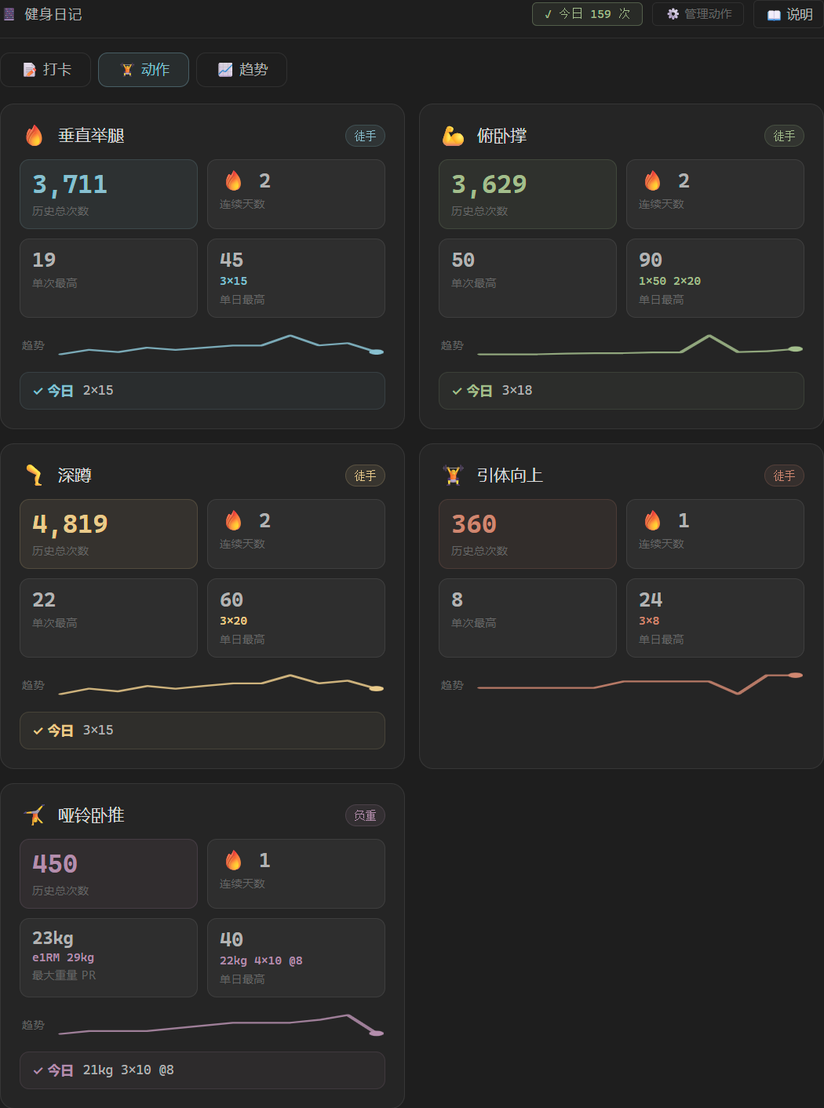
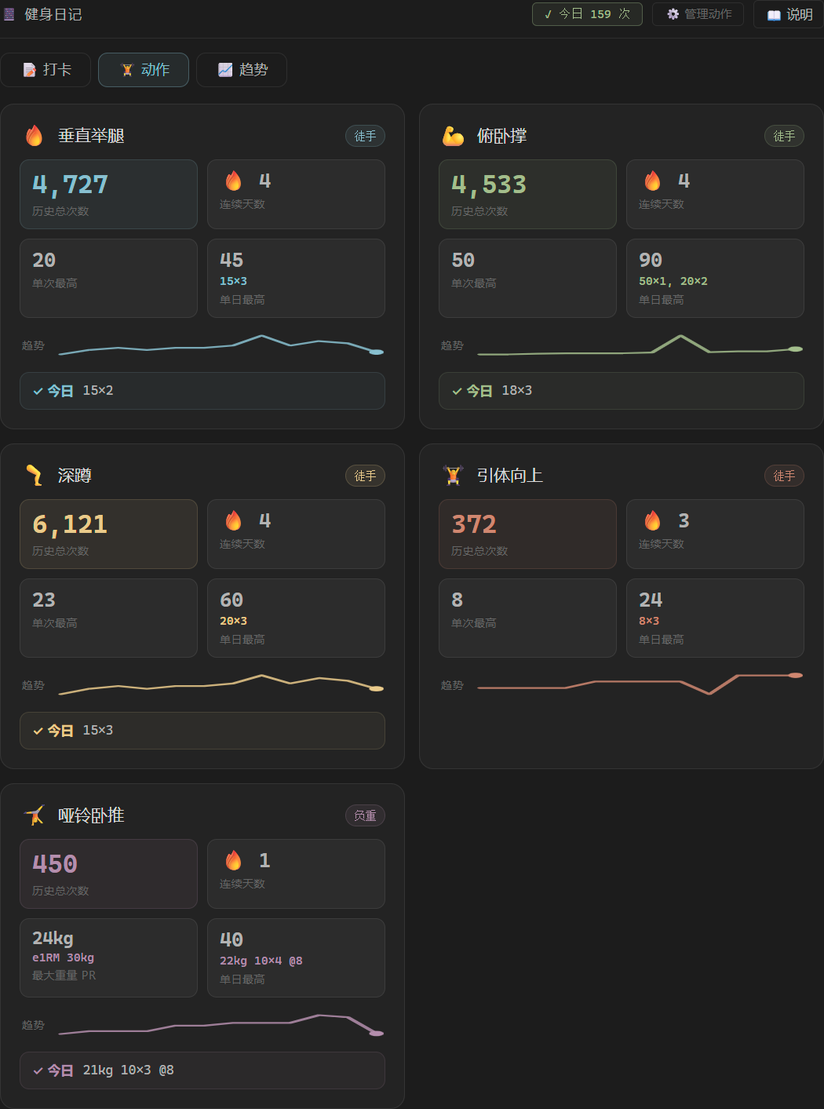
docs: README 同步 v1.93.0（健身日记表单重做）+ 刷新动作卡效果图

diff --git a/README.md b/README.md
@@ -132,12 +132,12 @@
 
 <div align="center">
   <img src="docs/img/module-workout.png" width="620" alt="健身日记"><br>
-  <b>📔 健身日记</b> · <sub>以「天」为中心的训练打卡：每天按<b>组记录</b>各动作（组数 × 次/组，负重动作可加 kg、选填 RPE；输入行上方有<b>列头</b>标着每格填什么，底下常显一行 RPE 是什么、怎么估）。<b>📊 累计总览</b>：从开始到今天（可按年份）的坚持天数 + 累计总次数 + 每个动作累计 + <b>全年热力图</b>（GitHub 式 52 周网格，一屏看一整年哪些天练了）。选时间段看<b>多动作锻炼曲线</b> + 每个动作的<b>单日峰值</b>及达成日 + 月历锻炼日历。</sub>
+  <b>📔 健身日记</b> · <sub>以「天」为中心的训练打卡（v1.93.0 表单重做，手机优先）：今天卡<b>只列今天练了的动作</b>（动作 chip 点谁加谁，可就地新建），每动作<b>一组一格横着排</b>（<code>[kg]kg [次]次</code>，「＋」照抄上一组、「↺ 上次」把上次的组整套填入；RPE 默认不显示、可在管理面板打开）；记录流水只列最近 10 天、每天一行摘要 <code>45kg 10×1, 60kg 8×2</code>。<b>📊 累计总览</b>：从开始到今天（可按年份）的坚持天数 + 累计总次数 + 每个动作累计 + <b>全年热力图</b>（GitHub 式 52 周网格，一屏看一整年哪些天练了）。选时间段看<b>多动作锻炼曲线</b> + 每个动作的<b>单日峰值</b>及达成日 + 月历锻炼日历。</sub>
 </div>
 
 <div align="center">
   <img src="docs/img/module-workout-ex.png" width="620" alt="健身日记 · 动作卡"><br>
-  <b>🏋 健身日记 · 动作卡</b> · <sub>每个动作一张长期档案卡：历史总次数 / 连续天数 🔥 / <b>单次最高</b>（一组不间断做的最多次数）/ <b>单日最高</b>（含当天组构成，如 1×50 2×20 = 90）；负重动作显示<b>最大重量 PR + e1RM 力量估算</b>；「努力量」进步趋势小图 + 今日组摘要。原「健身记录」模块已并入本模块，旧数据可在「⚙ 管理动作」一键无损迁入（含重量 / RPE）。</sub>
+  <b>🏋 健身日记 · 动作卡</b> · <sub>每个动作一张长期档案卡：历史总次数 / 连续天数 🔥 / <b>单次最高</b>（一组不间断做的最多次数）/ <b>单日最高</b>（含当天组构成，如 50×1, 20×2 = 90）；负重动作显示<b>最大重量 PR + e1RM 力量估算</b>；「努力量」进步趋势小图 + 今日组摘要。原「健身记录」模块已并入本模块，旧数据可在「⚙ 管理动作」一键无损迁入（含重量 / RPE）。</sub>
 </div>
 
 <div align="center">
